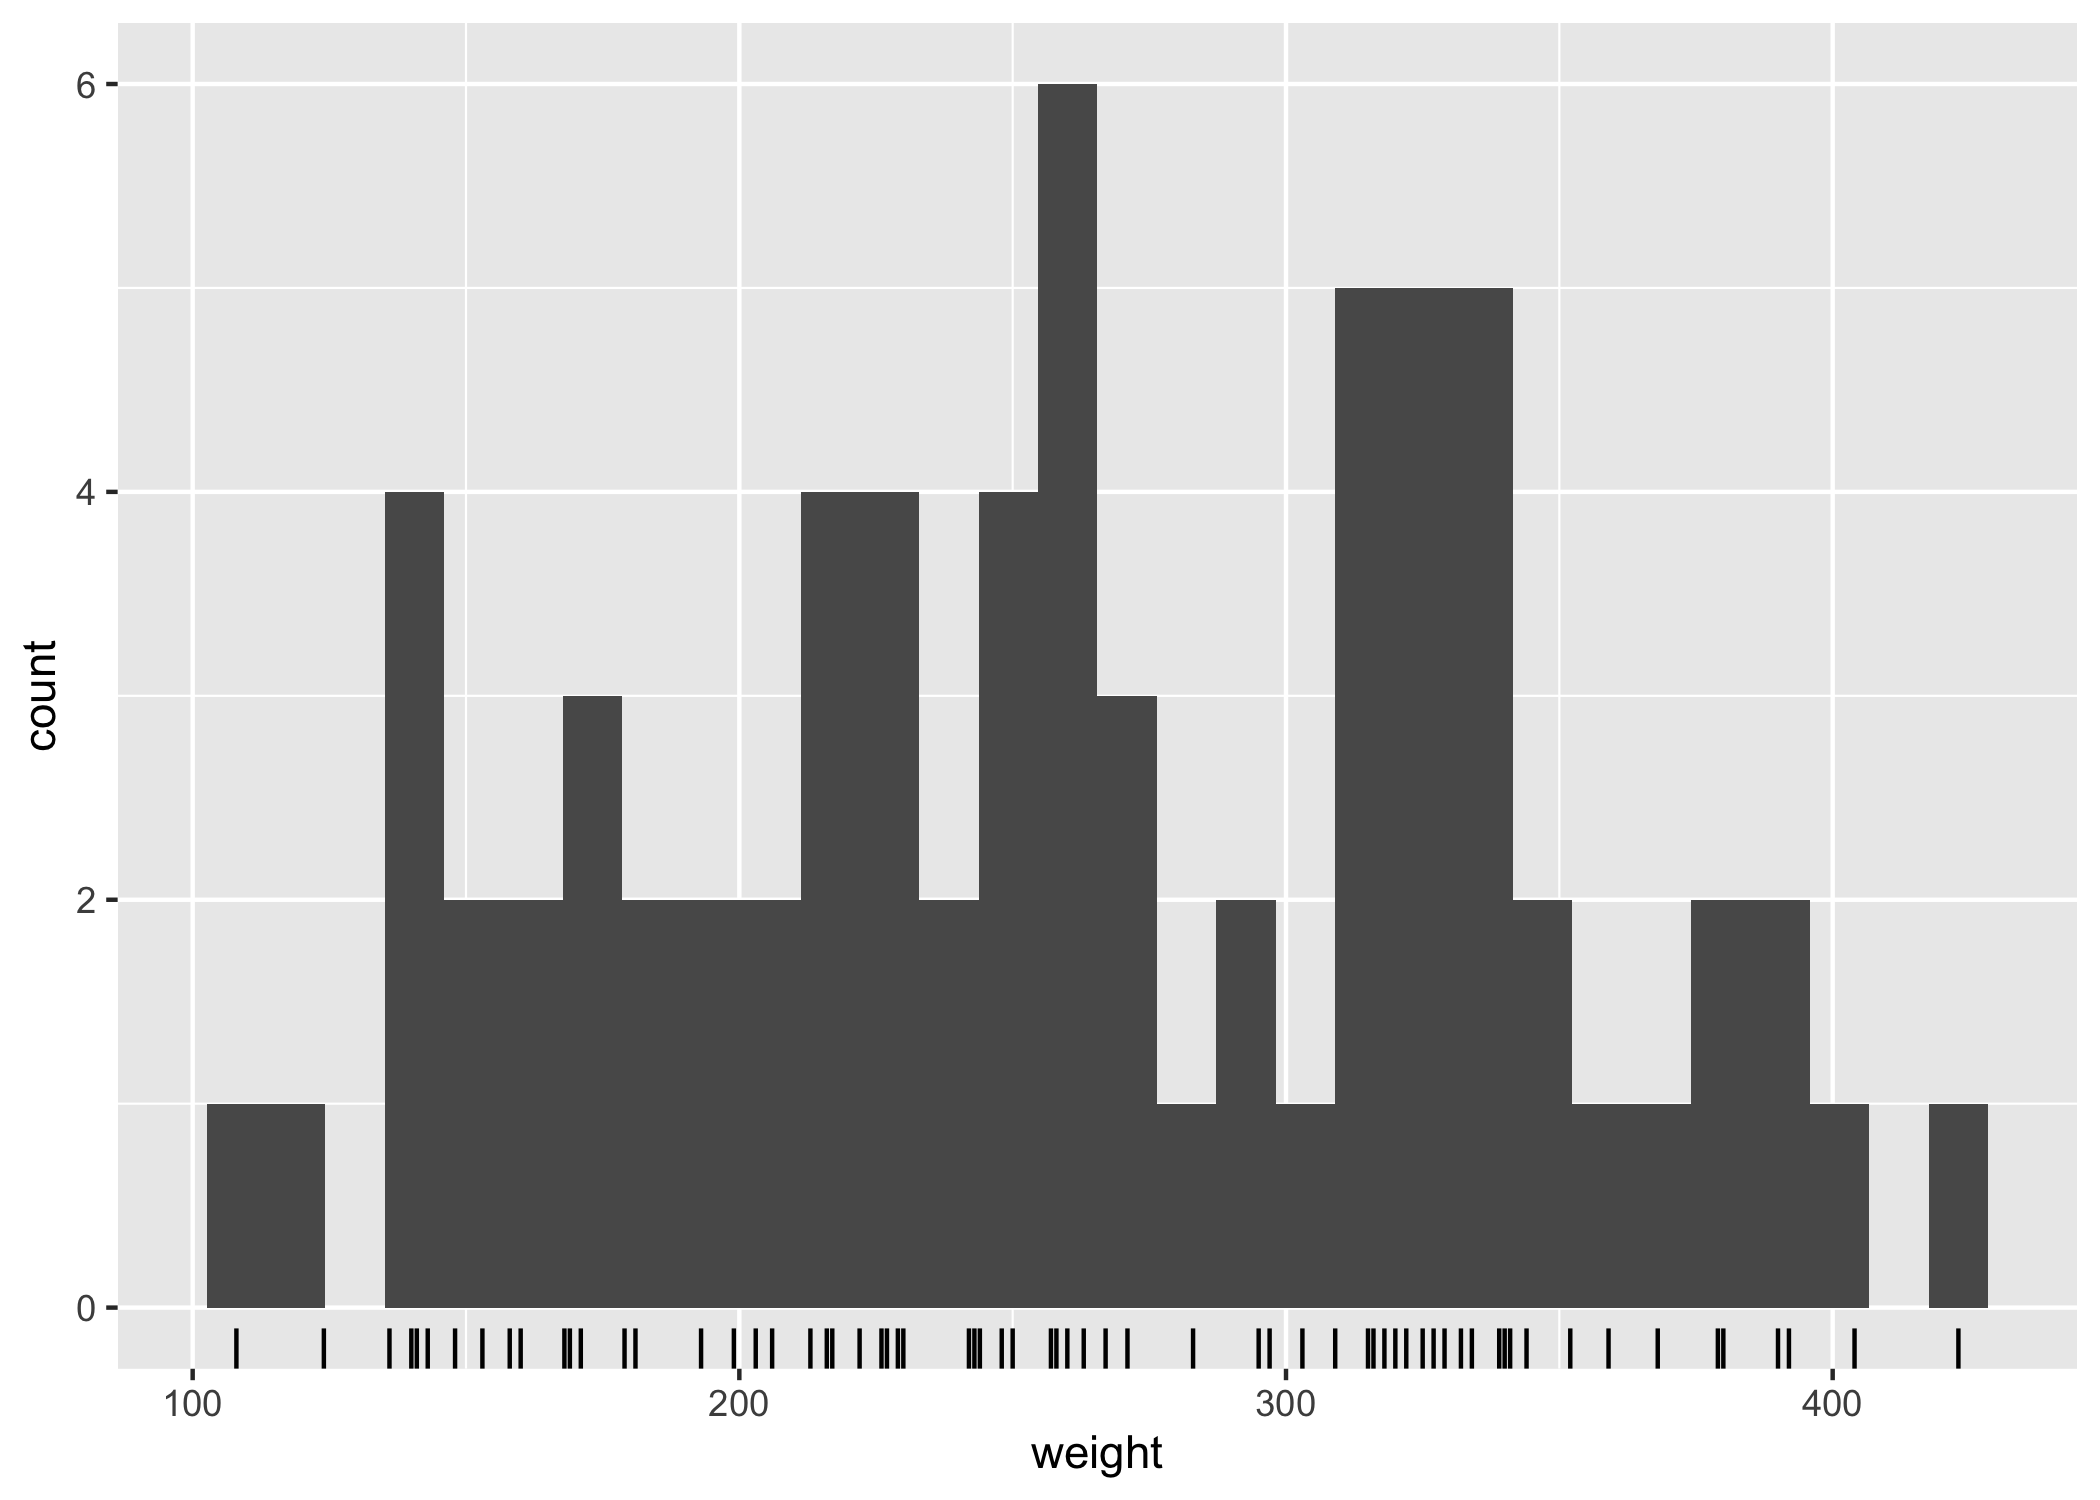
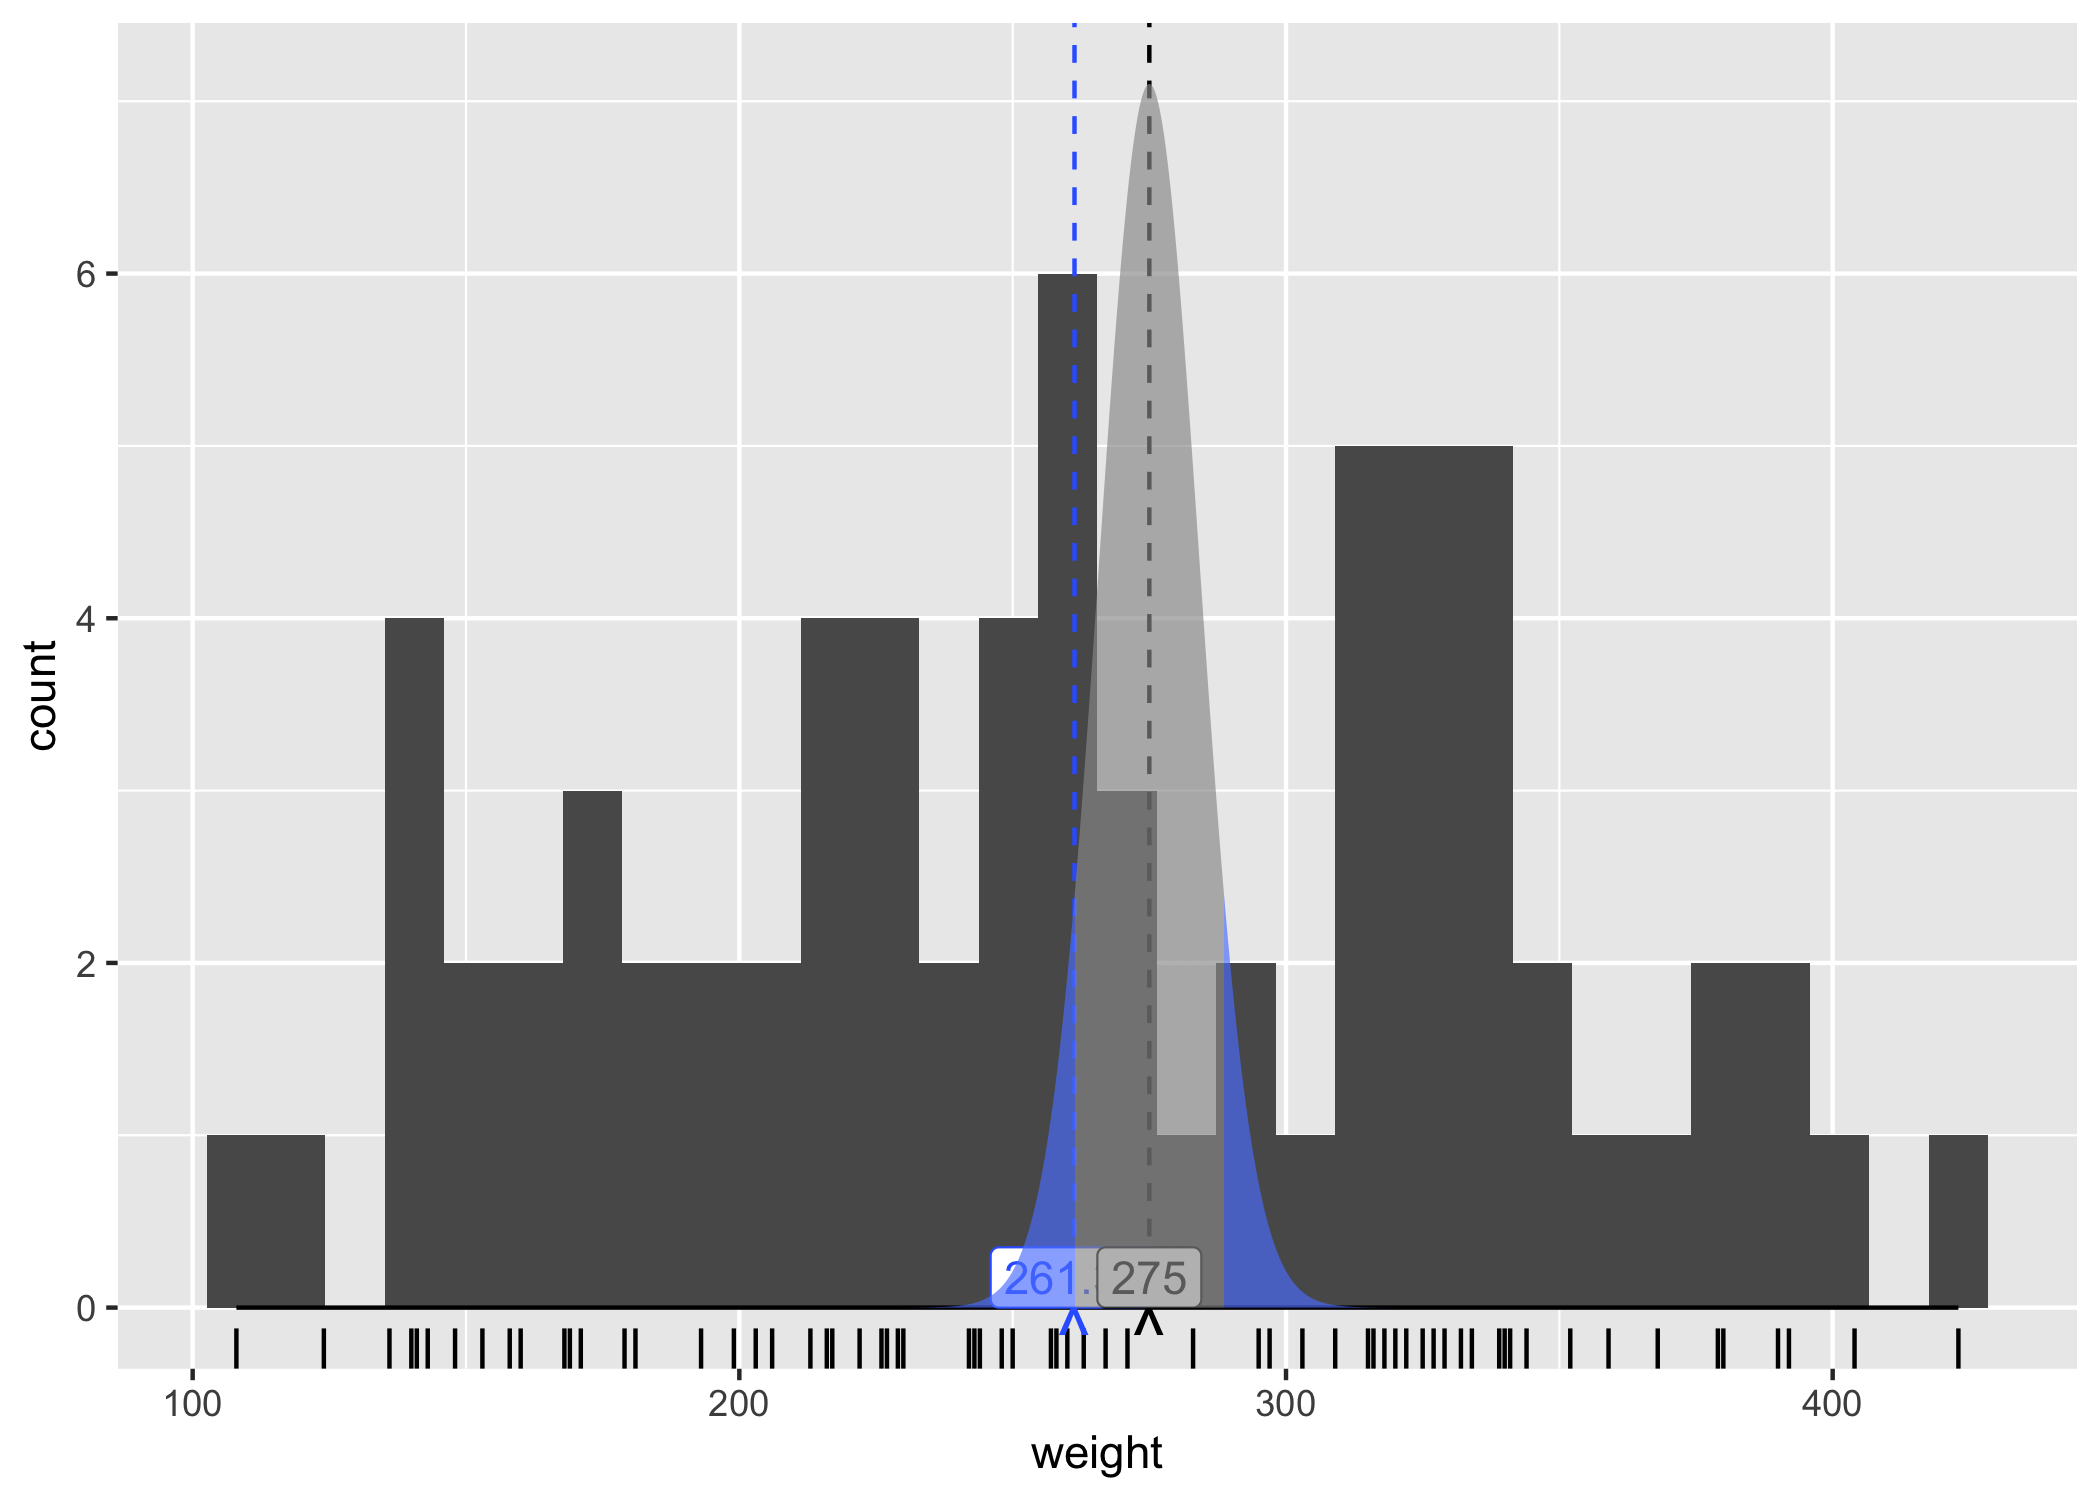
check package with intro

diff --git a/README.md b/README.md
@@ -23,8 +23,12 @@ ggt.test
 
 ## {ggt.test} is a micro package to examine the logic of the t.test.
 
+![](README_files/figure-gfm/unnamed-chunk-2-1.png)<!-- -->
+
 If we discuss each of the snapshot points, we could write something like
 this:
+
+![](README_files/figure-gfm/unnamed-chunk-3-1.png)<!-- -->
 
 ------------------------------------------------------------------------
 
@@ -53,6 +57,7 @@ usethis::use_data(time_elapsed_data, overwrite = T)
 </details>
 
 ``` r
+library(ggt.test)
 time_elapsed_data 
 #> # A tibble: 48 × 1
 #>    estimate
@@ -96,7 +101,12 @@ Mean grit score 3.5 for spelling Bee finalists
 
 <img src="images/clipboard-2630380012.png" width="454" />
 
-Class of 2010 West Point Cadet Grit score mean 3.75
+Class of 2010 West Point Cadet Grit score mean: 3.75
+
+M is the mean, N is the number of respondants, SD is the Standard
+deviation for the responses:
+
+![](images/clipboard-585571676.png)
 
 <details>
 
@@ -579,13 +589,15 @@ compute_dist_t <- function (data, scales, value = 3.5, height = NULL, tails = c(
   
   height = height %||% 3*nrow(data)/30
   
-  out <- seq(-5, 5, 0.01) %>% 
+  out <- seq(-5, 5, 0.01) %>% # 
+    # x initially centered at zero
     tibble(x = .) %>% 
-    mutate(y_density = dt(x, df = length(data$x) - 
-        1)) %>%
+    # use the t distribution, centered at zero, with 1 degree of freedom
+    mutate(y_density = dt(x, df = length(data$x) - 1)) %>%
+    # recalculate x so at centered at 'value' and 
+    mutate(x = x * (sd(data$x)/sqrt(length(data$x))) + value) |> 
     mutate(y = height*y_density/max(y_density)) %>% 
-    mutate(x = x * (sd(data$x)/sqrt(length(data$x))) + 
-        value) |> 
+
     mutate(upper_t = x > mean(data$x),
            lower_t = x < mean(data$x),
            two_tail = (x > upper) | (x < lower))
@@ -597,6 +609,7 @@ compute_dist_t <- function (data, scales, value = 3.5, height = NULL, tails = c(
   out$tails_logical <- if(tails == "two-sided"| tails == "both"){out$two_tail}else{out$tails_logical}
 
   out
+  
   
 }
 
@@ -716,19 +729,24 @@ grit_du_mean_plot +
 
 ``` r
 #' @export
-stamp_eq_norm_prop <- function(x = I(.125),
+stamp_standardized_stat <- function(x = I(.125),
     y = I(.8), size = 3.5){
   
   annotate(
     "text",
     x = x,
     y = y,
-    label = latex2exp::TeX("s = \\sqrt{\\frac{p*(1-p)}{n}}", output = "character"),
+    label = latex2exp::TeX("s = \\sqrt{\\frac{\\bar{x}*(\\mu_0)}{n}}", output = "character"),
     parse = TRUE,
     size = size
   )
 
 }
+```
+
+``` r
+# grit_du_mean_plot +
+#   stamp_standardized_stat
 ```
 
 </details>
